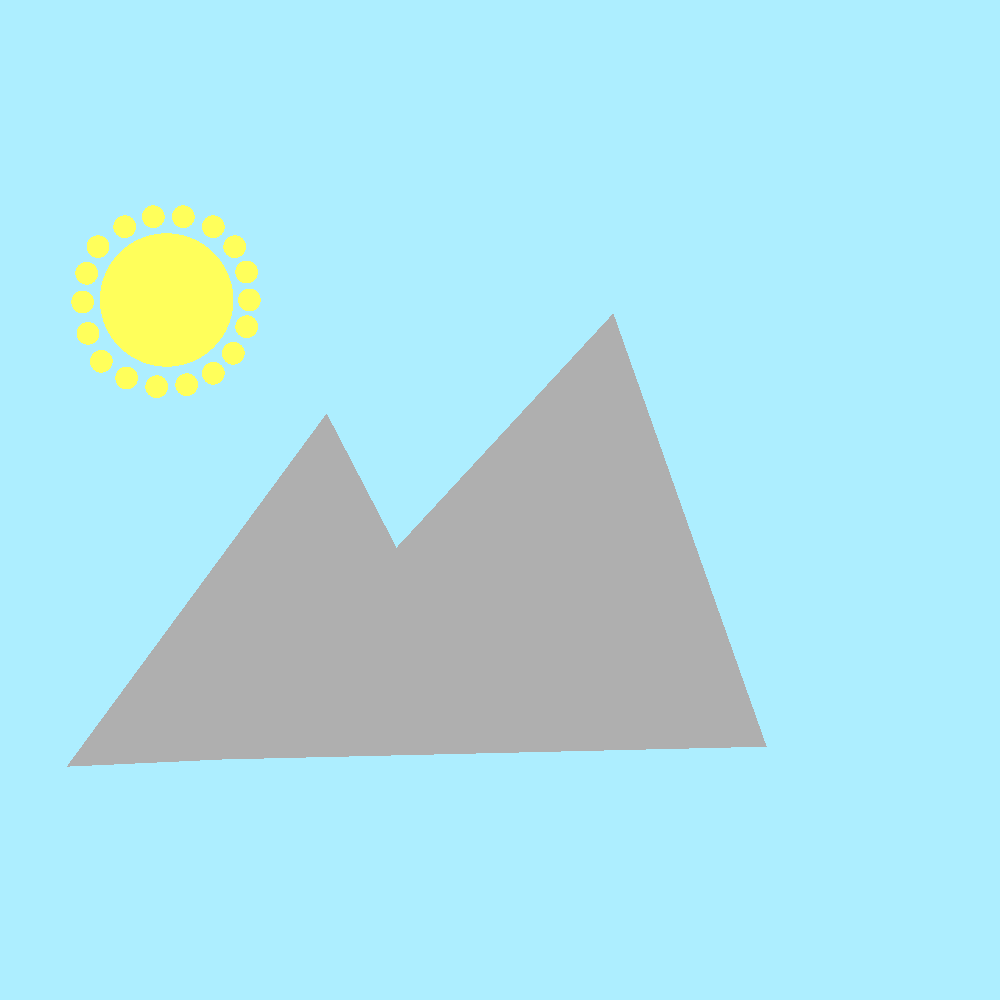
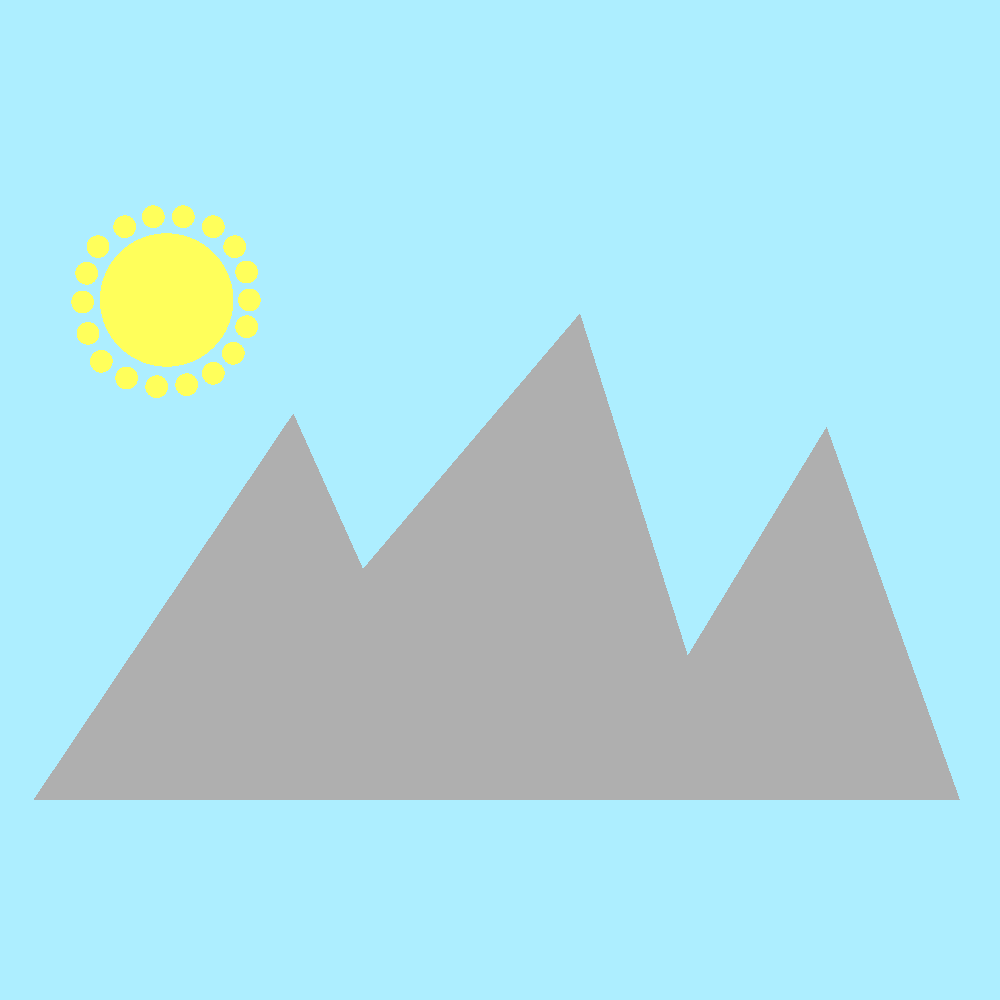
minip 1 sun+3mountain+SceneBack

Changed region(s): [[0.031, 0.31, 0.961, 0.806], [0.186, 0.403, 0.434, 0.589], [0.124, 0.589, 0.186, 0.682]]

diff --git a/unitTests/renderer/minip1Test.java b/unitTests/renderer/minip1Test.java
@@ -66,9 +66,11 @@ public class minip1Test {
 
         //mountain
         scene.getGeometries().add(
-                new Triangle(new Point(-65,-40,0),new Point(-26,13,0),new Point(0,-37,0)).setEmission(new Color(175,175,175))
+                new Triangle(new Point(-70,-45,0),new Point(-31,13,0),new Point(-5,-45,0)).setEmission(new Color(175,175,175))
                         .setMaterial(new Material().setKd(0).setKs(0).setShininess(100)),
-                new Triangle(new Point(-45,-39,0),new Point(17,28,0),new Point(40,-37,0)).setEmission(new Color(175,175,175))
+                new Triangle(new Point(-50,-45,0),new Point(12,28,0),new Point(35,-45,0)).setEmission(new Color(175,175,175))
+                        .setMaterial(new Material().setKd(0).setKs(0).setShininess(100)),
+                new Triangle(new Point(15,-45,0),new Point(49,11,0), new Point(69,-45,0)).setEmission(new Color(175,175,175))
                         .setMaterial(new Material().setKd(0).setKs(0).setShininess(100))
         );
 
